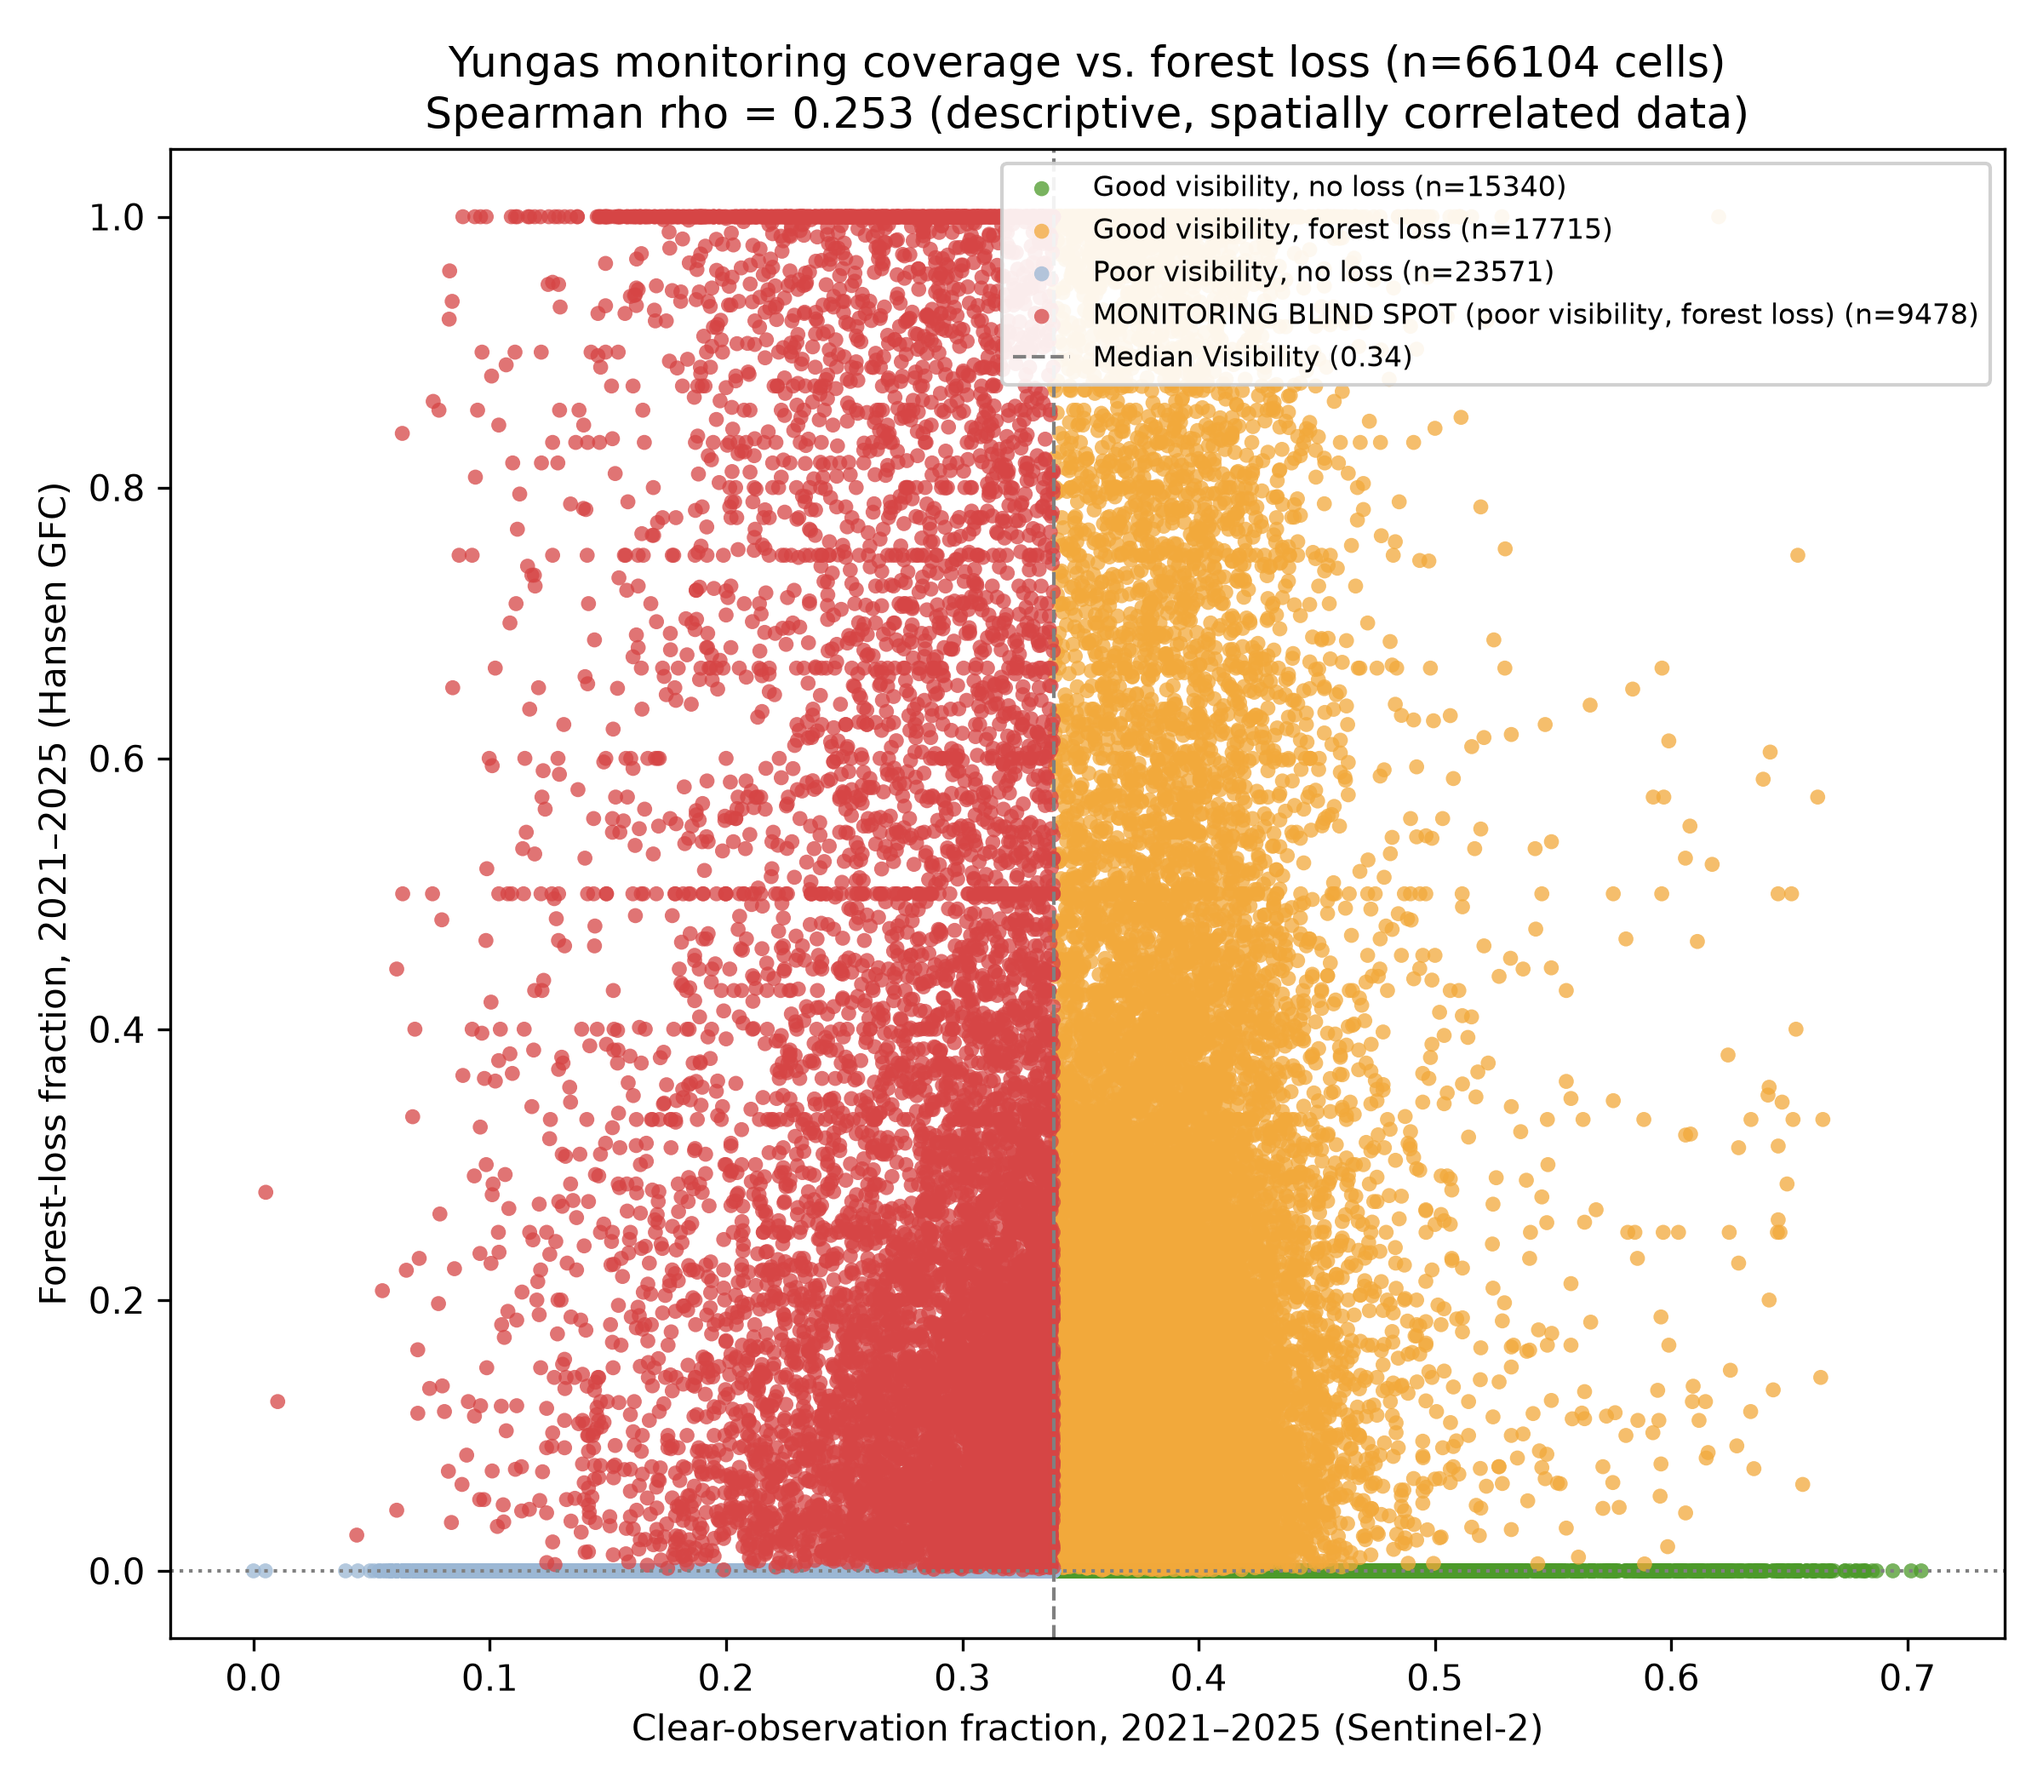
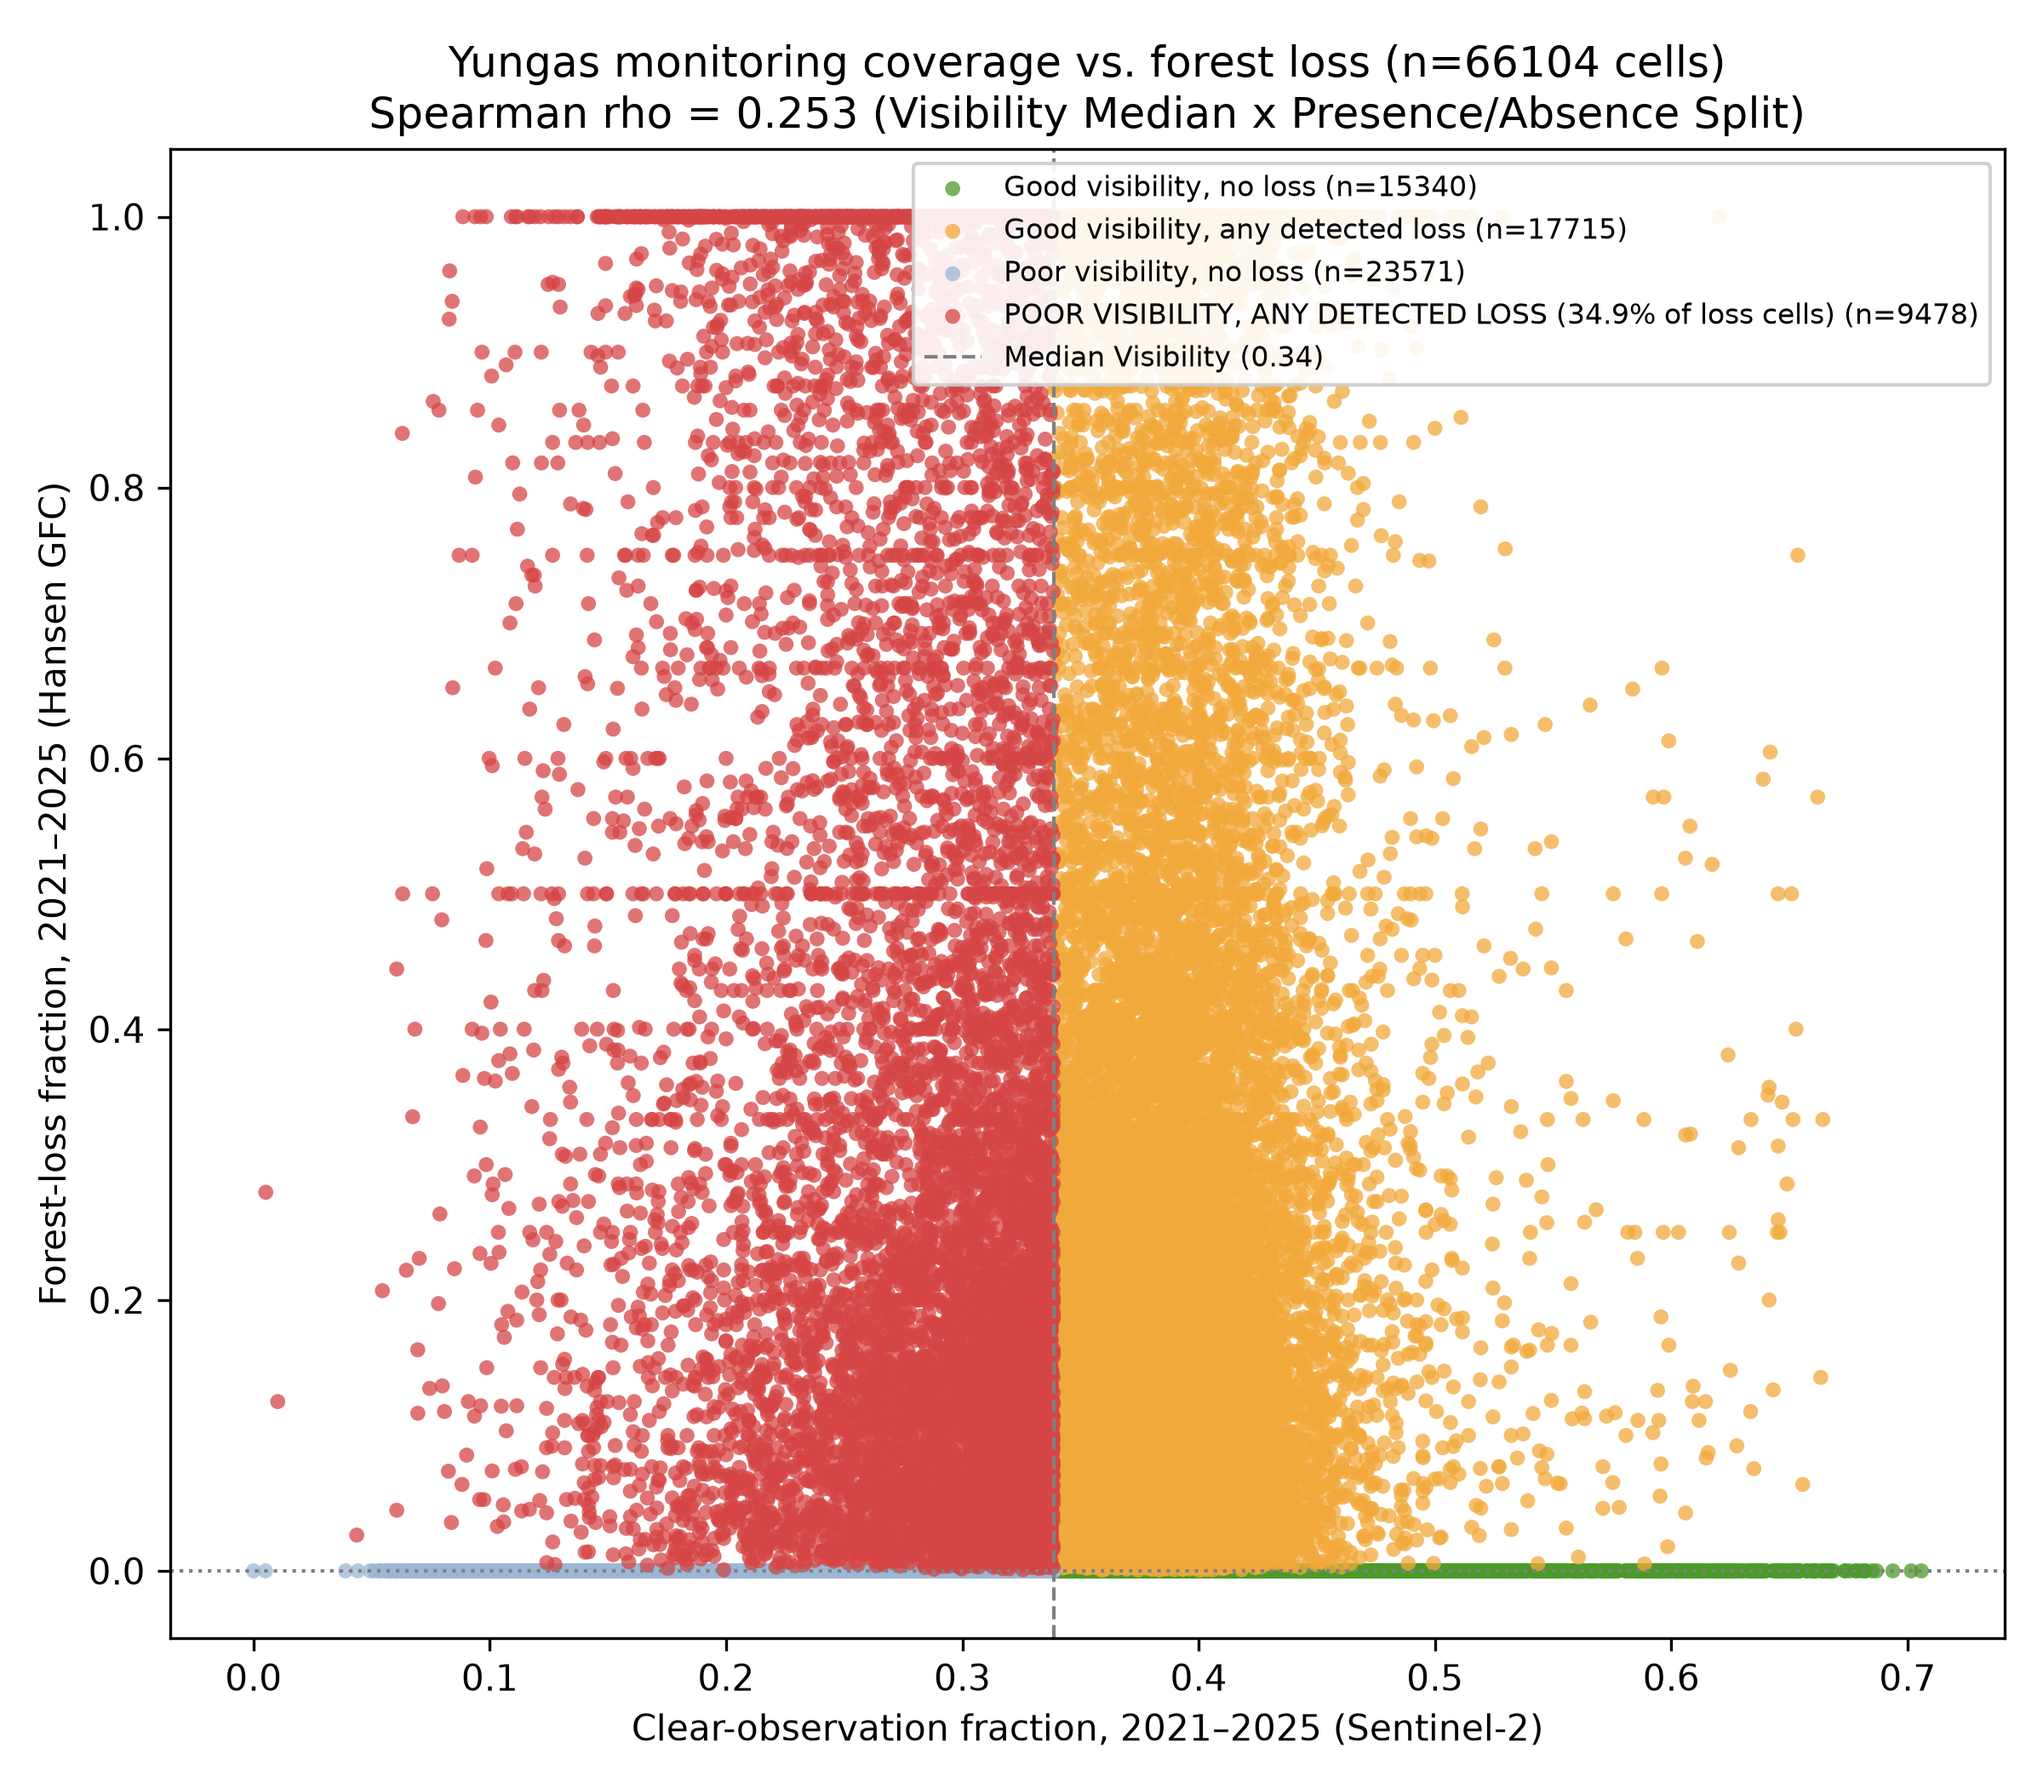
Step 7 complete: update loss threshold, figure, and README with precise detection artifact context

Changed region(s): [[0.1875, 0.031, 0.875, 0.2167]]

diff --git a/scripts/07_combine_analysis.py b/scripts/07_combine_analysis.py
@@ -57,11 +57,12 @@ colors = {
     "poor_visibility__no_loss": "#9BB7D4",
     "poor_visibility__has_loss": "#D64545",  # monitoring blind spot
 }
+
 labels = {
     "good_visibility__no_loss": "Good visibility, no loss",
-    "good_visibility__has_loss": "Good visibility, forest loss",
+    "good_visibility__has_loss": "Good visibility, any detected loss",
     "poor_visibility__no_loss": "Poor visibility, no loss",
-    "poor_visibility__has_loss": "MONITORING BLIND SPOT (poor visibility, forest loss)",
+    "poor_visibility__has_loss": "POOR VISIBILITY, ANY DETECTED LOSS (34.9% of loss cells)",
 }
 
 fig, ax = plt.subplots(figsize=(8, 7))
@@ -79,9 +80,8 @@ ax.set_xlabel("Clear-observation fraction, 2021–2025 (Sentinel-2)")
 ax.set_ylabel("Forest-loss fraction, 2021–2025 (Hansen GFC)")
 ax.set_title(
     f"Yungas monitoring coverage vs. forest loss (n={len(df)} cells)\n"
-    f"Spearman rho = {rho:.3f} (descriptive, spatially correlated data)"
+    f"Spearman rho = {rho:.3f} (Visibility Median x Presence/Absence Split)"
 )
 ax.legend(loc="upper right", fontsize=8, framealpha=0.9)
 plt.tight_layout()
 plt.savefig("figures/figure3_monitoring_blindspot.png", dpi=300)
-print("\nSaved figures/figure3_monitoring_blindspot.png")
